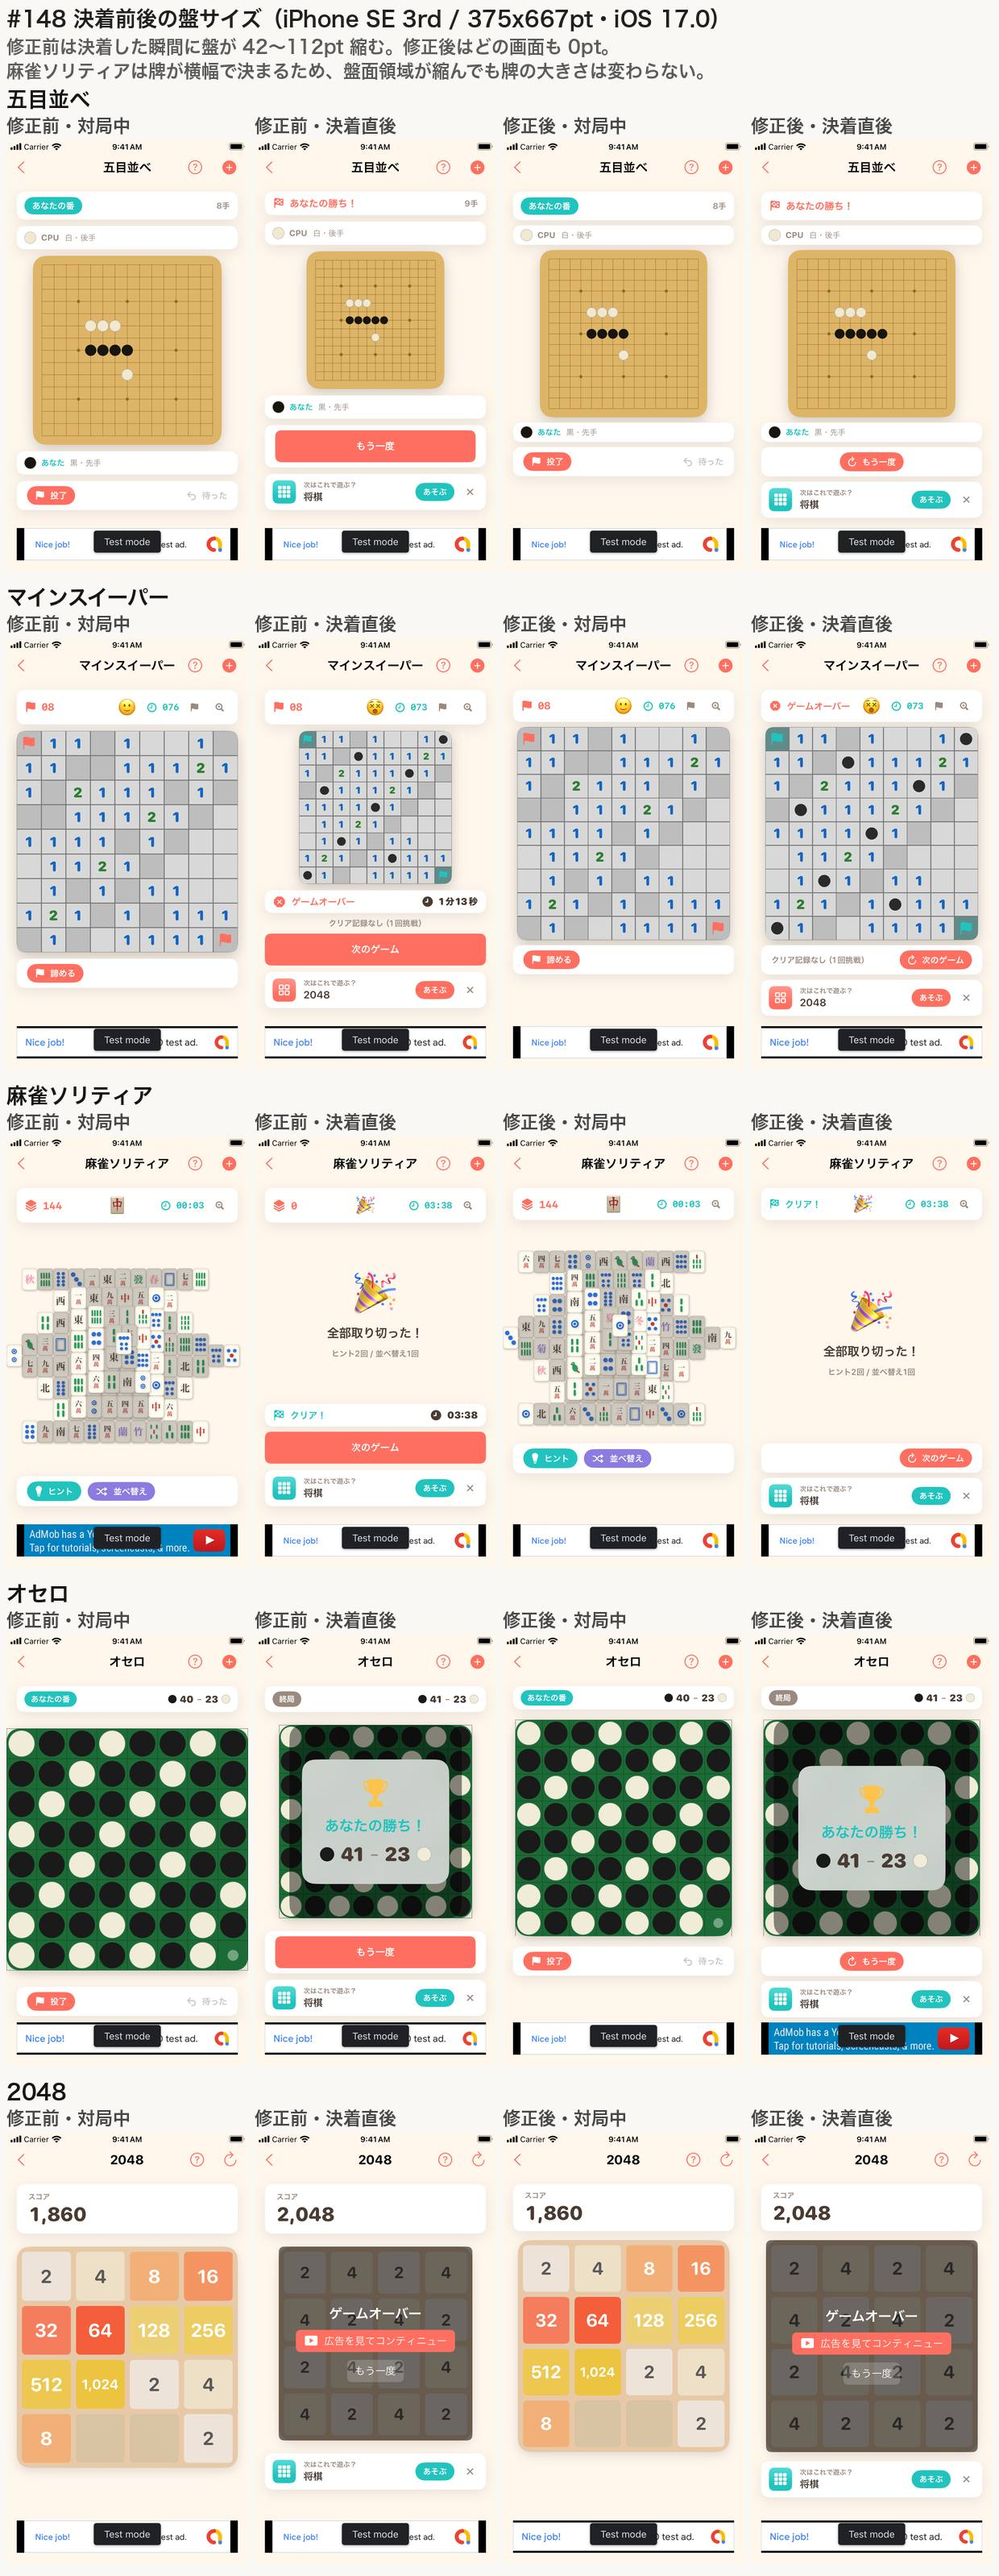
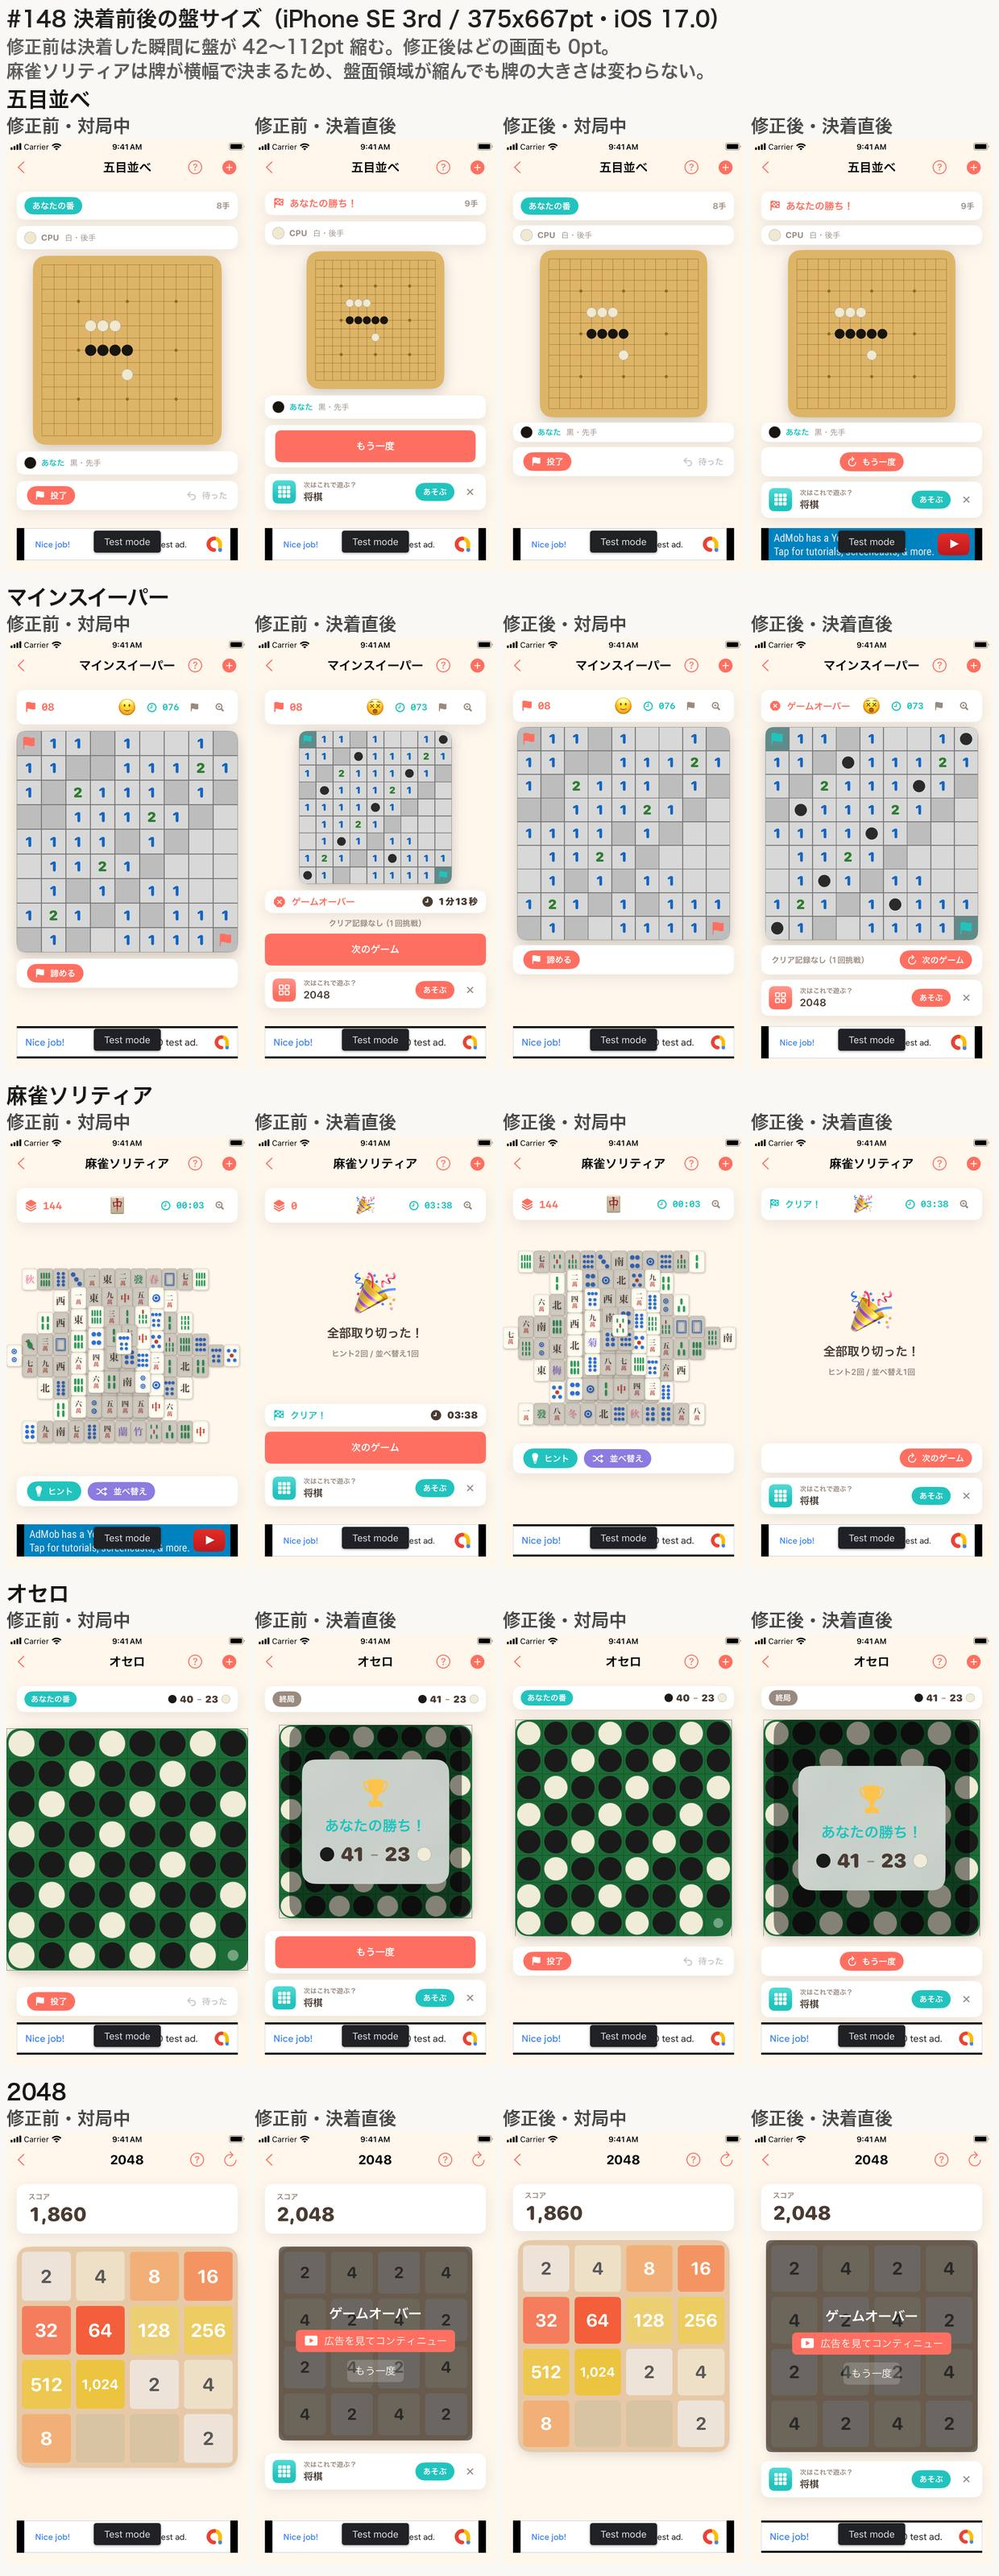
fix(gomoku): 終局後もステータスバーに手数を残す（#148・品質保証部の指摘）
将棋(#139)は手数を検討ナビの n/N手 に譲れたが、五目並べには代わりの表示が
無いため、記録ラベルと入れ替えると手数がどこにも出なくなっていた。記録は
足すだけにして手数を残す。実装コメントの根拠（将棋からの流用）も訂正。

併せて PR #153 の CodeRabbit 指摘に対応:
- -simulateGiveUp で新規ゲームシートを先に畳む（初回起動でシートが被る）
- docs/ui-review/148/README.md の見出し誤検知(MD018)と、差・割合の丸め基準を是正

diff --git a/Packages/GameKit/Sources/GameGomoku/GomokuView.swift b/Packages/GameKit/Sources/GameGomoku/GomokuView.swift
@@ -272,13 +272,13 @@ public struct GomokuView: View {
             }
             Spacer(minLength: 8)
             if model.gameOver {
-                // 終局後の記録は行を増やさずここに同居させる（#148）。手数は決着後に
-                // 増えないため、記録と入れ替えても失われる情報は無い。
+                // 終局後の記録は行を増やさずここに同居させる（#148）。
+                // 将棋（#139）は手数を検討ナビの「n/N手」に譲れたが、五目並べには
+                // 代わりの表示が無いため、手数はここに残したまま記録を足す。
                 RecordLabel(model.recordResult)
                     .lineLimit(1).minimumScaleFactor(0.7)
-            } else {
-                Text("\(model.moveCount)手").font(Theme.body(13)).foregroundStyle(Theme.inkSub)
             }
+            Text("\(model.moveCount)手").font(Theme.body(13)).foregroundStyle(Theme.inkSub)
         }
         .frame(minHeight: 32)
         .padding(.horizontal, 12).padding(.vertical, 6)

diff --git a/Packages/GameKit/Sources/GameMinesweeper/MinesweeperView.swift b/Packages/GameKit/Sources/GameMinesweeper/MinesweeperView.swift
@@ -101,6 +101,9 @@ public struct MinesweeperView: View {
             // 常にプレイ中に戻る（`MinesweeperModel.init` が `.playing` 固定）ため、
             // 非対話のシミュレータ確認ではこの経路が要る（#148）。
             if ProcessInfo.processInfo.arguments.contains("-simulateGiveUp") {
+                // 中断スナップショットが無い初回起動では新規ゲームシートが前面に出たままに
+                // なるため、先に畳んでから終局させる（PR #153 指摘）。
+                showNewGame = false
                 model.giveUp()
             }
             #endif

diff --git a/docs/ui-review/148/README.md b/docs/ui-review/148/README.md
@@ -1,9 +1,13 @@
 # #148 終局後に盤面が縮む — 画面確認（五目並べ・マインスイーパー・麻雀ソリティア・オセロ・2048）
 
-#139（将棋）で入れた手当ての横展開。盤（またはカードグリッド）は**塗り色の外接矩形を
-ピクセル単位で実測**し、一辺の長さ（pt = 実測ピクセル ÷ 画面の倍率）で比較している。
-麻雀ソリティアだけは終局時に盤面が「取り切った演出」に差し替わるため、盤の一辺ではなく
-**盤面領域の高さ**（ステータスバーの下端〜操作カードの上端）を測っている。
+`#139`（将棋）で入れた手当ての横展開。盤（またはカードグリッド）は**塗り色の外接矩形を
+ピクセル単位で実測**し、一辺の長さで比較している。麻雀ソリティアだけは終局時に盤面が
+「取り切った演出」に差し替わるため、盤の一辺ではなく**盤面領域の高さ**
+（ステータスバーの下端〜操作カードの上端）を測っている。
+
+**数値の出し方**: pt = 実測ピクセル ÷ 画面の倍率（iPhone 17 は 3、iPhone SE は 2）。
+差と割合は**丸める前の pt から計算し、結果を小数第 1 位で四捨五入**している
+（表の値どうしを引き算しても丸め誤差の範囲で一致する）。
 
 ## before-after-iphone-se.jpg — iPhone SE 3rd（375×667pt・iOS 17.0）
 
@@ -11,42 +15,61 @@
 
 | ゲーム | 修正前 対局中 | 修正前 決着後 | 差 | 修正後 対局中 | 修正後 決着後 | 差 |
 |---|---|---|---|---|---|---|
-| 五目並べ | 293pt | 214pt | **-79pt (-27%)** | 260pt | 260pt | **0pt** |
-| マインスイーパー | 344pt | 238pt | **-106pt (-31%)** | 331pt | 331pt | **0pt** |
-| 麻雀ソリティア（盤面領域の高さ） | 396pt | 285pt | **-112pt (-28%)** | 350pt | 350pt | **0pt** |
-| オセロ | 374pt | 298pt | **-76pt (-20%)** | 335pt | 335pt | **0pt** |
-| 2048 | 343pt | 300pt | **-42pt (-12%)** | 328pt | 328pt | **0pt** |
+| 五目並べ | 293.0pt | 214.0pt | **-79.0pt (-27.0%)** | 260.0pt | 260.0pt | **0.0pt** |
+| マインスイーパー | 344.0pt | 238.0pt | **-106.0pt (-30.8%)** | 331.0pt | 331.0pt | **0.0pt** |
+| 麻雀ソリティア（盤面領域の高さ） | 396.5pt | 284.5pt | **-112.0pt (-28.2%)** | 349.5pt | 349.5pt | **0.0pt** |
+| オセロ | 374.0pt | 298.5pt | **-75.5pt (-20.2%)** | 335.0pt | 335.0pt | **0.0pt** |
+| 2048 | 343.0pt | 300.5pt | **-42.5pt (-12.4%)** | 328.5pt | 328.5pt | **0.0pt** |
 
-対局中の盤はこの機種でのみ 12〜47pt 小さくなる（理由は下記）。
+対局中の盤はこの機種で 13.0〜47.0pt 小さくなる（内訳は下記）。
 
 ## before-after-iphone17.jpg — iPhone 17（402×874pt・iOS 26.4）
 
-盤の下に余白が残る機種。**修正後、対局中の盤は現行と同じ大きさのまま**。
+盤の下に余白が残る機種。**盤の一辺で測る 4 画面は、対局中の大きさが現行と同じまま**。
 
 | ゲーム | 修正前 対局中 | 修正前 決着後 | 差 | 修正後 対局中 | 修正後 決着後 | 差 |
 |---|---|---|---|---|---|---|
-| 五目並べ | 370pt | 335pt | **-35pt** | 370pt | 370pt | **0pt** |
-| マインスイーパー | 371pt | 371pt | 0pt | 371pt | 371pt | **0pt** |
-| 麻雀ソリティア（盤面領域の高さ） | 517pt | 406pt | **-111pt** | 470pt | 470pt | **0pt** |
-| オセロ | 401pt | 401pt | 0pt（位置が 43pt 上へ跳ねる） | 401pt | 401pt | **0pt**（位置も固定） |
-| 2048 | 370pt | 370pt | 0pt | 370pt | 370pt | **0pt** |
+| 五目並べ | 370.0pt | 335.3pt | **-34.7pt (-9.4%)** | 370.0pt | 370.0pt | **0.0pt** |
+| マインスイーパー | 370.7pt | 370.7pt | 0.0pt | 370.7pt | 370.7pt | **0.0pt** |
+| 麻雀ソリティア（盤面領域の高さ） | 516.7pt | 406.0pt | **-110.7pt (-21.4%)** | 469.7pt | 469.7pt | **0.0pt** |
+| オセロ | 401.3pt | 401.3pt | 0.0pt（位置が 43pt 上へ跳ねる） | 401.3pt | 401.3pt | **0.0pt**（位置も固定） |
+| 2048 | 370.0pt | 370.0pt | 0.0pt | 370.0pt | 370.0pt | **0.0pt** |
 
-## 対局中の盤が小さくなる件（iPhone SE のみ・実測値と理由）
+## gomoku-record-label.jpg — 五目並べで記録ラベルと手数が同居することの確認
+
+ステータスバーへ寄せた結果、終局後の 1 行に「結果 / 通算成績 / 手数」が並ぶ。
+将棋（`#139`）は手数を検討ナビの「n/N手」に譲れたが、五目並べには代わりの表示が無いため
+**手数はステータスバーに残したまま記録を足している**。狭い iPhone SE でも重ならず収まり、
+盤の一辺も変わらない（iPhone 17: 370.0pt / SE: 260.0pt）。
+
+この状態は、CPU（白）が 4 連の局面で手番を持つスナップショットを復元して**実際に CPU に
+勝たせて**作っている（`gameDidFinish` を通るので記録ラベルが本物の値になる）。
+
+## 対局中の盤が小さくなる件（実測値と理由）
 
 レコメンドカード（56pt）+ 行間 8pt = **64pt を常に確保する**のがこの修正の要。
 カードは出るとは限らず×でも閉じられるため、条件付きで高さを足すやり方では安定しない
-（#139 で `RecommendationCard.heightPlaceholder` を Core に用意した理由）。
+（`#139` で `RecommendationCard.heightPlaceholder` を Core に用意した理由）。
 
 確保したぶんは**駒・牌・カード・文字の大きさ（＝タップ目標）を一切変えずに縦の余白から
 捻出した**（`VStack` の間隔 10→8 / 20→14、ステータスバーの上下余白 8〜12→6〜10、
 五目並べの石情報行の最小高 36→30、下端の `Spacer(minLength:)` 8→0）。
-それでも足りないぶんが iPhone SE での 12〜47pt にあたる。
+それでも足りないぶんが下表の減少にあたる。
+
+| ゲーム | iPhone 17 | iPhone SE 3rd |
+|---|---|---|
+| 五目並べ | 0.0pt | **-33.0pt** |
+| マインスイーパー | 0.0pt | **-13.0pt** |
+| 麻雀ソリティア（盤面領域の高さ） | **-47.0pt** | **-47.0pt** |
+| オセロ | 0.0pt | **-39.0pt** |
+| 2048 | 0.0pt | **-14.5pt** |
 
 - **麻雀ソリティアの牌は 1pt も小さくなっていない**。牌の大きさは横幅で決まるため
-  （`min(幅/15.56, 高さ/11.98)` の前者が常に小さい）、盤面領域の高さが減っても影響しない。
-  実測でも牌の並びの横幅は修正前後で同一（iPhone 17: 390.7pt / SE: 364.0pt）。
-- 残る 4 画面は「対局中に最大 47pt 小さい代わりに、決着の瞬間に 42〜112pt 縮まない」という
-  交換になっている。#139 の将棋（対局中 334→321pt）と同じ判断。
+  （`min(幅/15.56, 高さ/11.98)` の前者が常に小さい）、盤面領域の高さが 47pt 減っても
+  影響しない。実測でも牌の並びの横幅は修正前後で同一（iPhone 17: 390.7pt / SE: 364.0pt）。
+  上表の -47.0pt は牌の下に空く余白が減ったぶん。
+- 残る 4 画面は iPhone SE でのみ 13.0〜39.0pt 小さくなる。「対局中に最大 39pt 小さい代わりに、
+  決着の瞬間に 42.5〜106.0pt 縮まない」という交換で、`#139` の将棋（対局中 334→321pt）と同じ判断。
 
 ## 再現方法
 
@@ -64,6 +87,7 @@ xcrun simctl launch booted "$BUNDLE_ID" -startGame gomoku -simulateRecommendatio
   （五目並べ・オセロ = `winner`、2048 = 詰みの盤面、麻雀ソリティア = `faces` が全て `null`）。
 - **マインスイーパーだけは復元では終局にできない**（`MinesweeperModel.init` が常に `.playing`）。
   この画面用に DEBUG 限定の起動引数 `-simulateGiveUp`（= 「諦める」と同じ経路）を足してある。
+  `giveUp()` は `.playing` でないと効かないため、**中断スナップショットと併せて使う**こと。
 - レコメンドカードは `-simulateRecommendation <gameID>`（DEBUG 限定）で条件を通さずに出せる。
 - 初回だけ出る遊び方ヒントの 1 行が入ると盤の高さが変わるため、撮影前に各ゲームを
   2 回空打ちして「見せた」を消費しておく。
